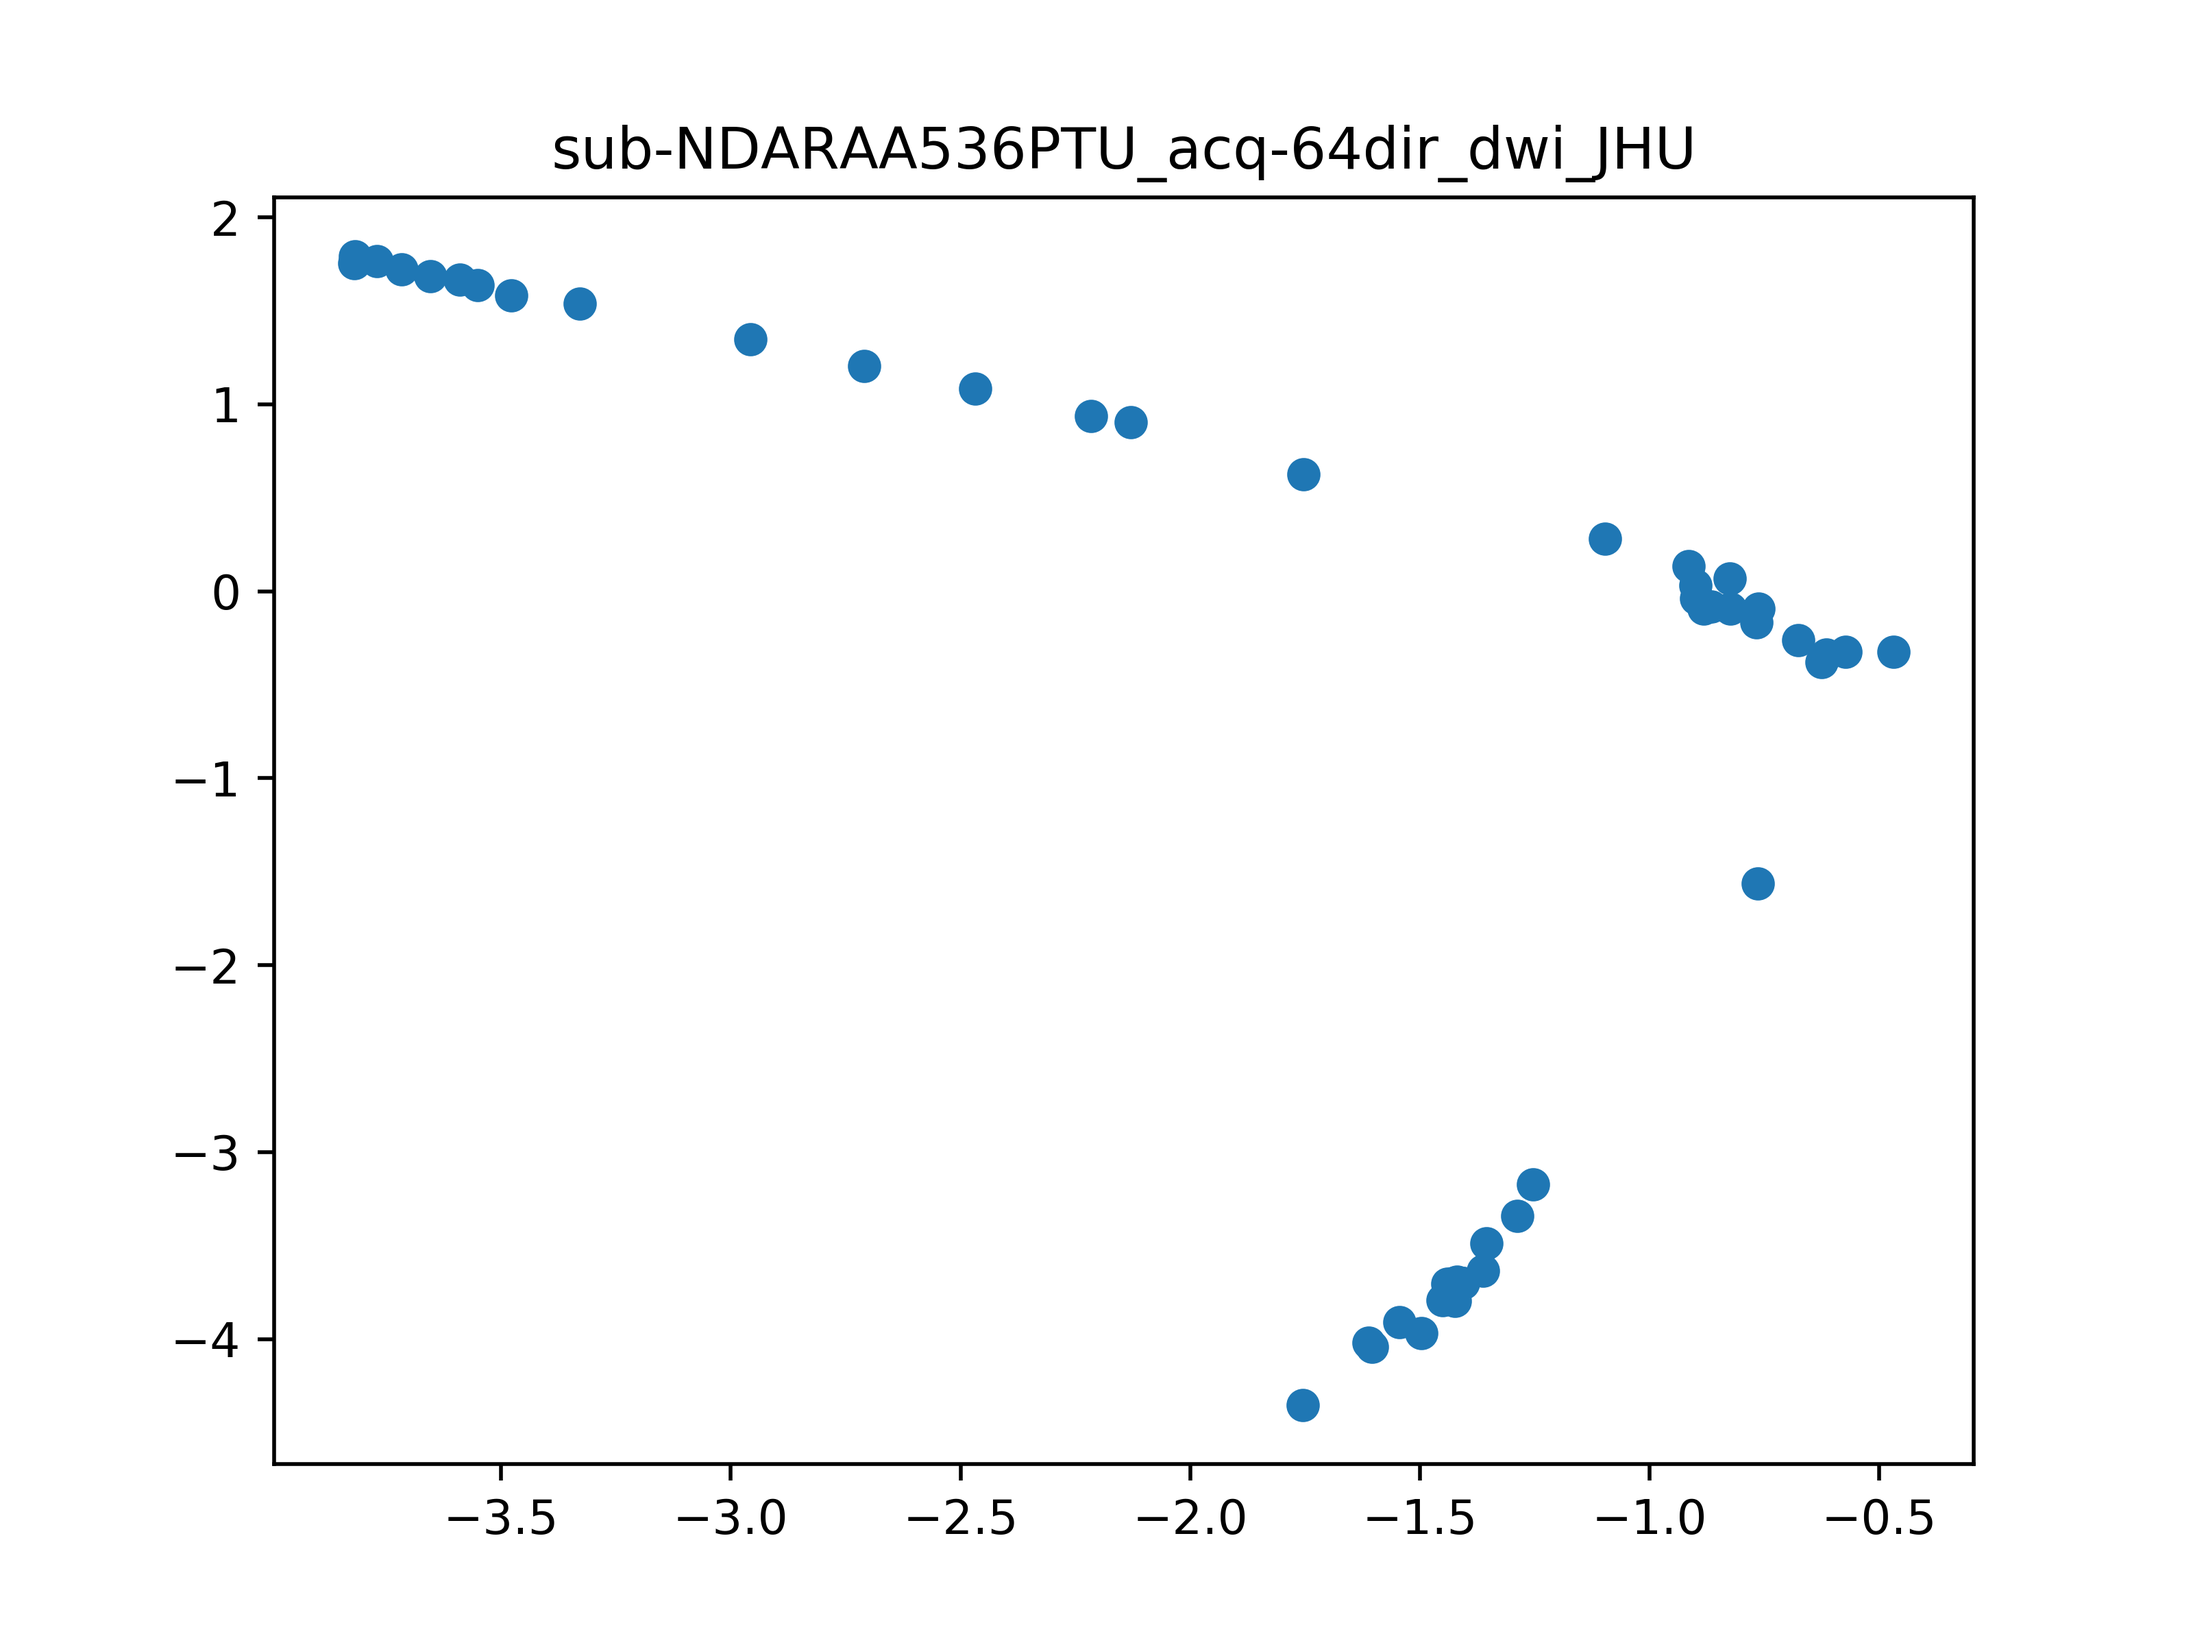
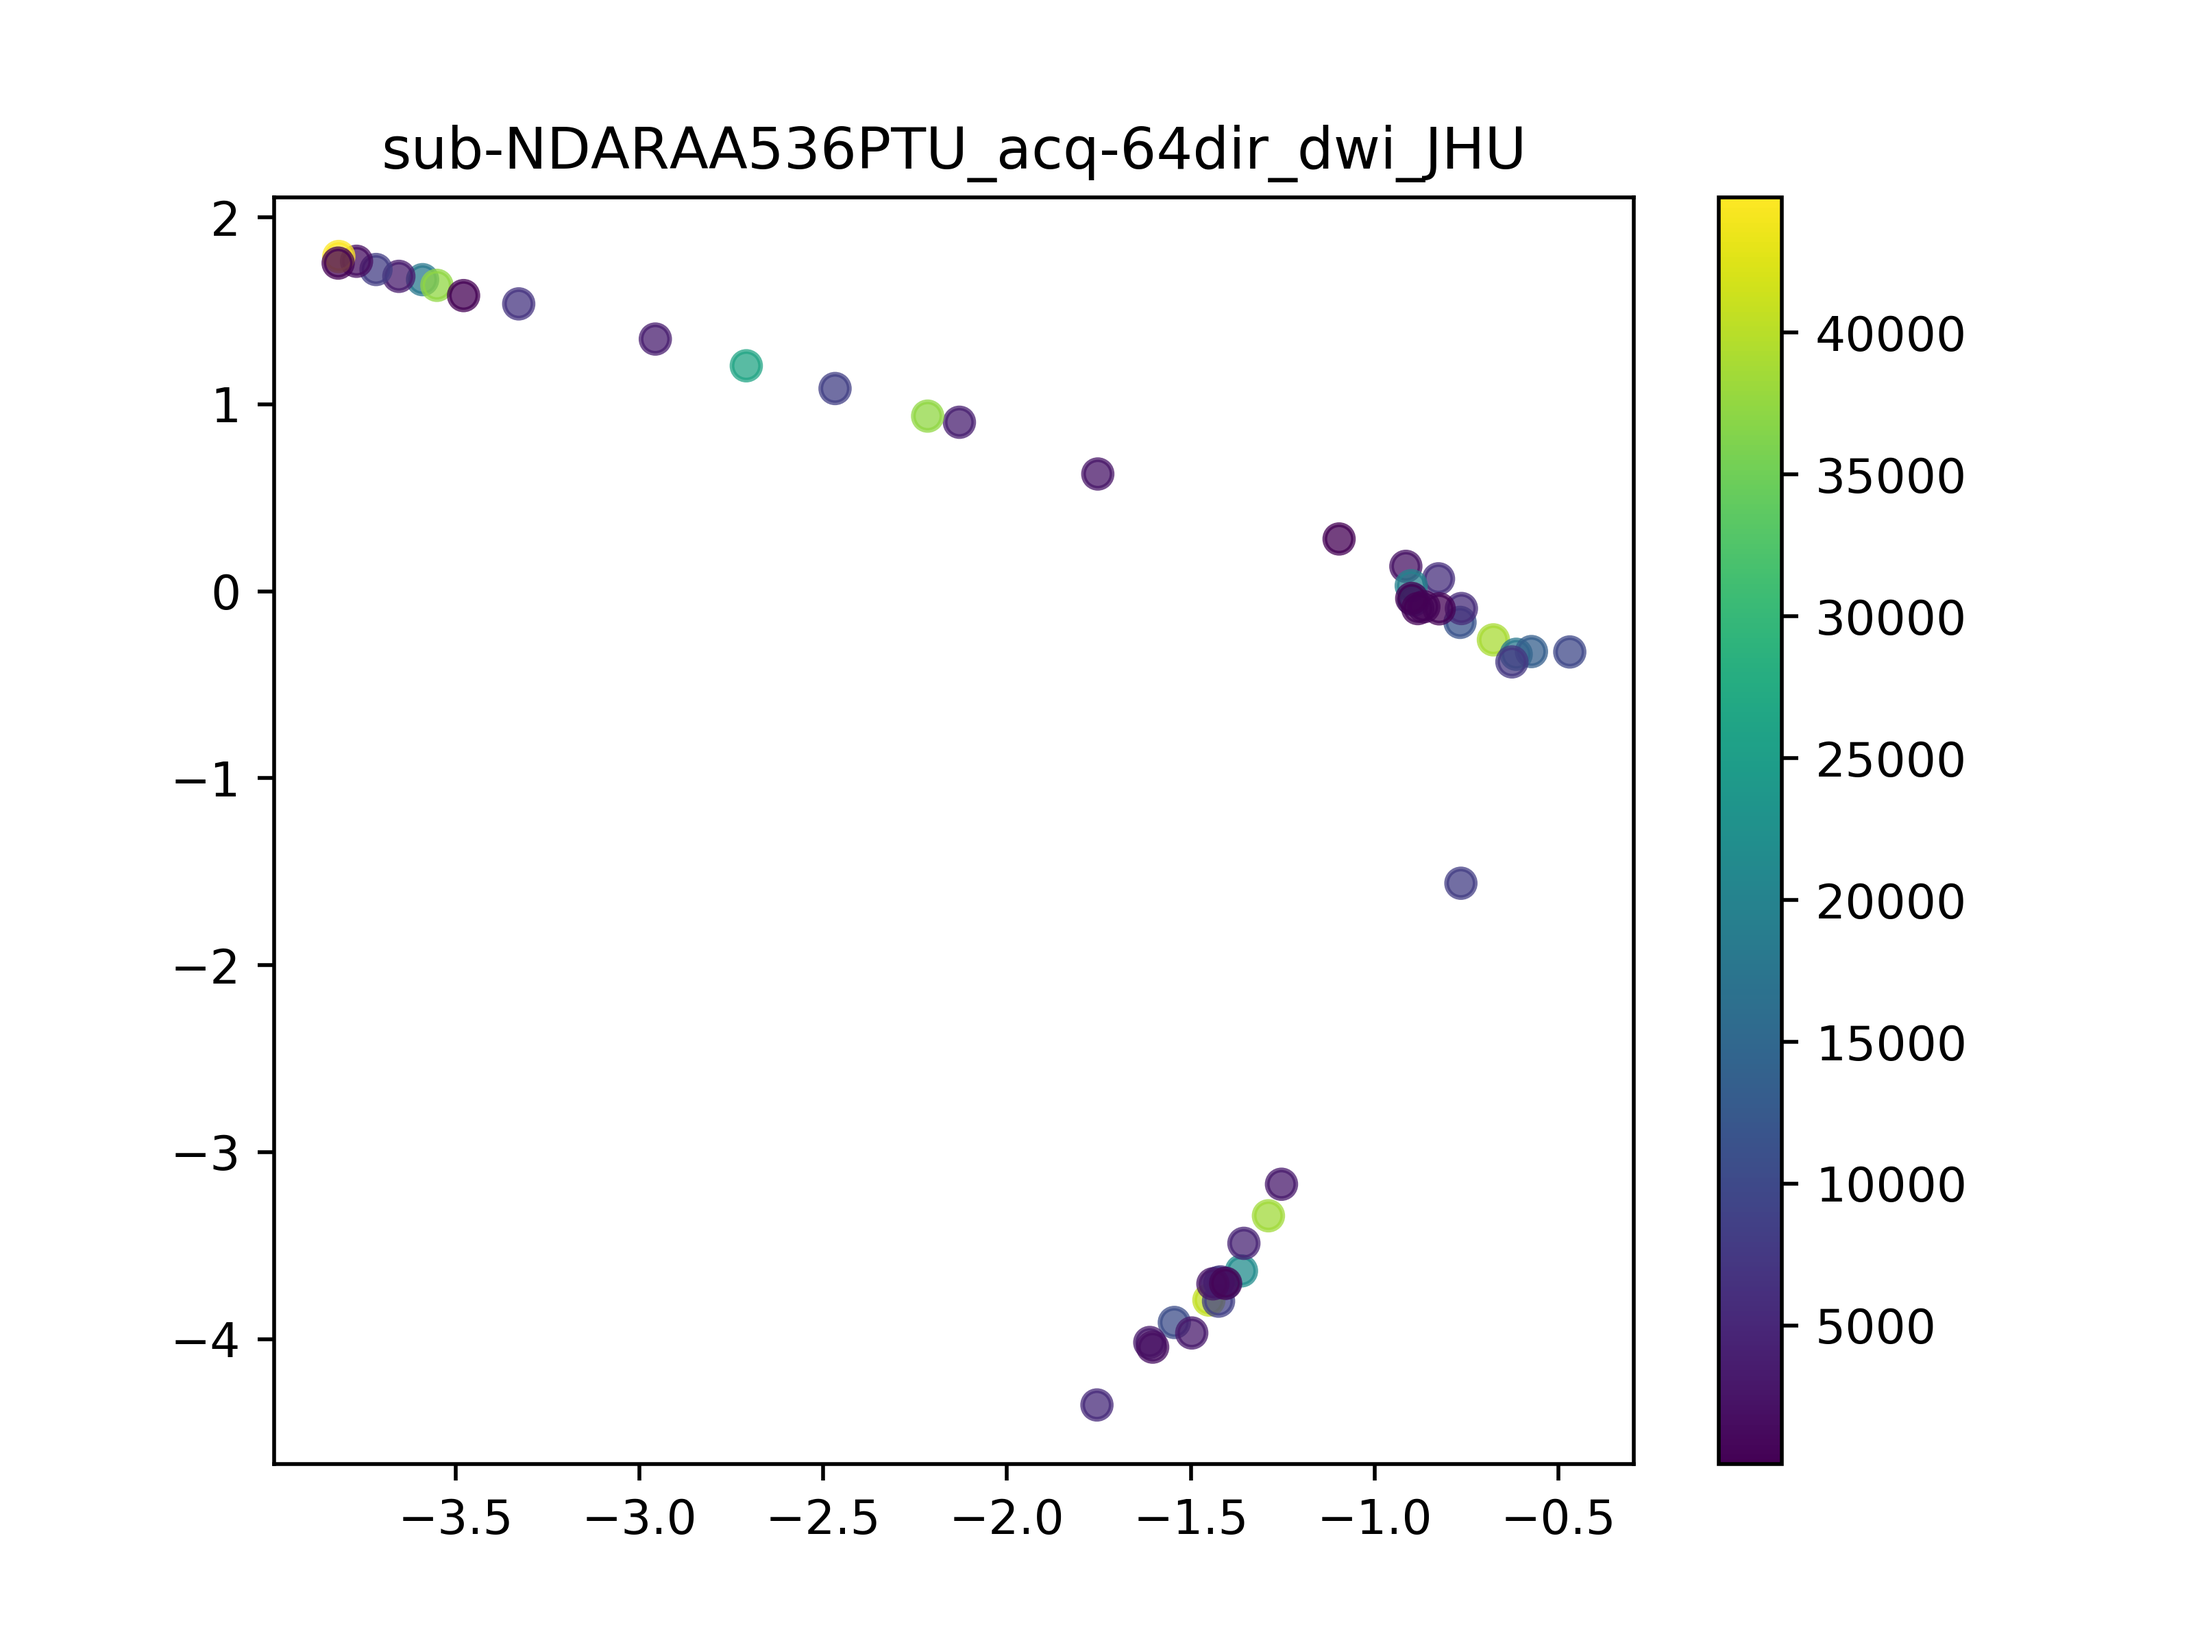
final versions

diff --git a/presentations/week4/scripts/draw_embedding.py b/presentations/week4/scripts/draw_embedding.py
@@ -1,7 +1,29 @@
 from load_embedding import emb
 
+import matplotlib
 import matplotlib.pyplot as plt
+import requests
+import numpy as np
+import networkx as nx
 
+
+def convert_edgelist(filename='hbn/derivatives/graphs/JHU/sub-NDARAA536PTU_acq-64dir_dwi_JHU.edgelist'):
+
+    # Fetch edgelist
+    link = 'http://neurodatadesign.s3.amazonaws.com/' + filename
+    edges = requests.get(link).text.split()
+    edges = np.array([int(x) for x in edges])
+    edges = [tuple(edges[x:x + 3]) for x in range(0, len(edges), 3)]
+
+    if edges == []:
+        print(filename + ' is empty.')
+        return
+
+    # Convert edgelist to networkx object
+    G = nx.Graph()
+    G.add_weighted_edges_from(edges)
+    adj = nx.to_numpy_matrix(G)
+    return np.diagonal(adj).tolist()
 
 
 def main():
@@ -10,12 +32,25 @@ def main():
 
     # Load embedding
     emb1 = emb(filepath + filename)
+    weights = convert_edgelist()
+
+    cmap = matplotlib.cm.get_cmap('viridis')
+    normalize = matplotlib.colors.Normalize(vmin=min(weights), vmax=max(weights))
+    colors = [cmap(normalize(value)) for value in weights]
+
+    print(colors)
 
     # Make plot
-    plt.title(filename.split('.')[0])
-    plt.scatter(x=emb1.data[:, 1], y=emb1.data[:, 2], label=emb1.filename)
-    plt.savefig('./figures/{}-embedding.png'.format(filename.split('.')[0]), dpi=500)
+    fig, ax = plt.subplots()
+    ax.set_title(filename.split('.')[0])
+    ax.scatter(x=emb1.data[:, 1], y=emb1.data[:, 2], label=emb1.filename, color=colors, alpha=0.75)
 
+    cax, _ = matplotlib.colorbar.make_axes(ax)
+    cbar = matplotlib.colorbar.ColorbarBase(cax, cmap=cmap, norm=normalize)
+
+
+    plt.savefig('./figures/{}-embedding.png'.format(filename.split('.')[0]), dpi=500)
+    plt.show()
 
 if __name__ == '__main__':
     main()

diff --git a/presentations/week4/scripts/paired_visualization.py b/presentations/week4/scripts/paired_visualization.py
@@ -1,4 +1,4 @@
-from load_embeddings import emb
+from load_embedding import emb
 
 import os
 import matplotlib.pyplot as plt
@@ -16,6 +16,7 @@ def main():
     emb3 = emb(filepath + filelist[2])
 
     # Let's see some plots
+    plt.figure(figsize=(16.1803398875/1.5, 10/1.5))
     plt.scatter(x=emb1.data[:, 1], y=emb1.data[:, 2], label=emb1.filename)
     plt.scatter(x=emb2.data[:, 1], y=emb2.data[:, 2], label=emb2.filename)
     plt.scatter(x=emb3.data[:, 1], y=emb3.data[:, 2], label=emb3.filename)
@@ -30,6 +31,8 @@ def main():
         plt.plot(x_, y_, 'k--', alpha=0.25)
 
     plt.legend()
+
+    plt.savefig('./figures/multiple_embddings.png', dpi=500)
     plt.show()
 
 

diff --git a/presentations/week4/scripts/draw_edgelist.py b/presentations/week4/scripts/draw_edgelist.py
@@ -71,7 +71,11 @@ if __name__ == '__main__':
         G, filename = graph
         filename = filename.split('.')[0]
         plt.title(filename.split('.')[0])
-        nx.draw(G, node_size=50, with_labels=False,
-                alpha=0.75, width=0.05, font_size=10)
 
-        plt.savefig('./figures/{}-nxgraph.png'.format(filename), dpi=500)
+        adj = nx.to_numpy_matrix(G)
+        print(adj)
+        plt.imshow(adj)
+        plt.colorbar()
+        # plt.show()
+
+        plt.savefig('./figures/{}-edglist-image.png'.format(filename), dpi=500)
